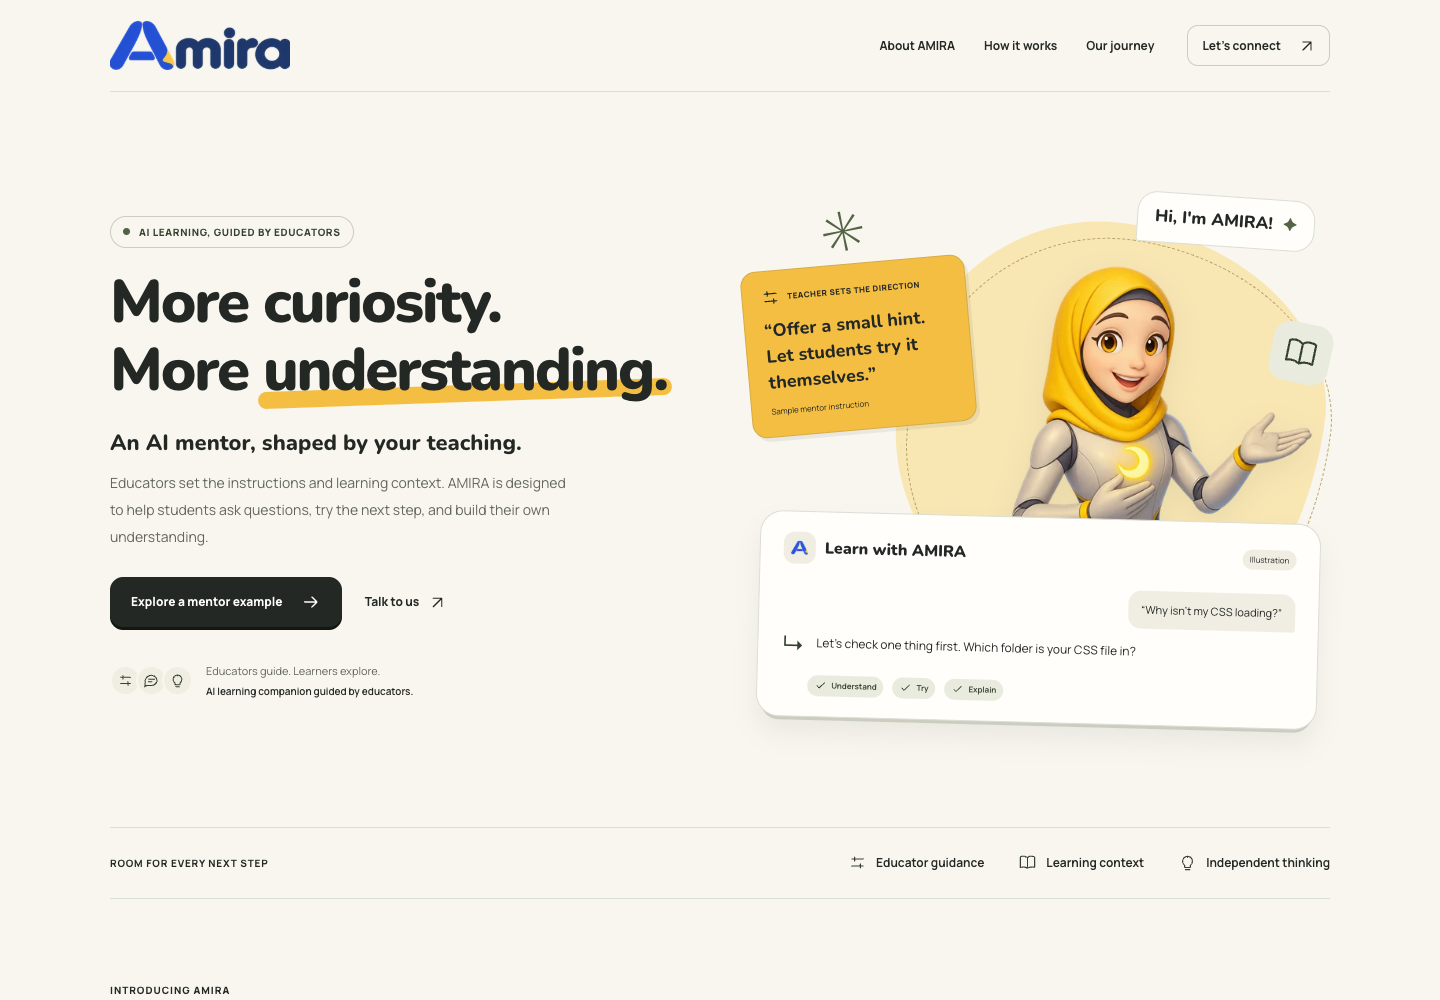
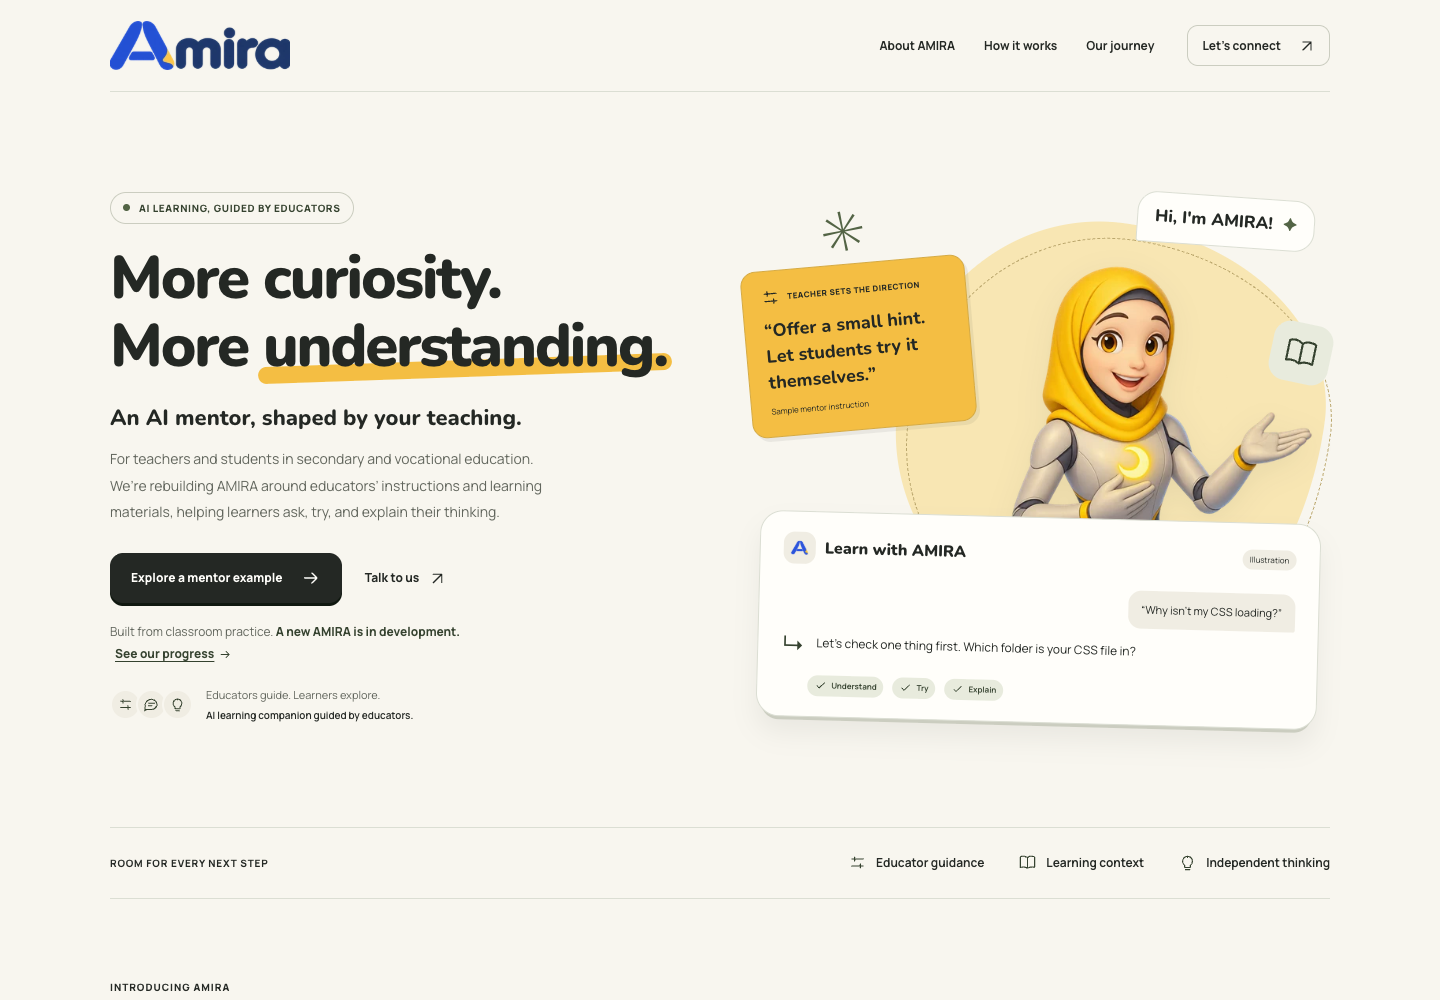
Clarify AMIRA audience and development stage

Changed region(s): [[0.0625, 0.186, 0.4688, 0.744], [0.0938, 0.961, 0.1562, 1.0]]

diff --git a/src/styles/global.css b/src/styles/global.css
@@ -120,3 +120,10 @@ button,select,input{font:inherit}button,a{-webkit-tap-highlight-color:transparen
 .contact-panel{background:var(--gold);border-color:#d5aa43}
 .contact-copy h2,.contact-copy p,.contact-copy .eyebrow,.contact-email,.mascot-caption{color:var(--ink)}
 .mascot-halo{background:var(--warm-soft)}
+
+/* Make the first learning context and development stage visible in the hero. */
+.hero-development{max-width:460px;margin-top:18px;font-size:12px;line-height:1.85;color:var(--muted)}
+.hero-development strong{font-weight:750;color:var(--accent-ink)}
+.hero-development a{display:inline-flex;align-items:center;gap:5px;margin-left:5px;color:var(--accent-ink);font-weight:750;text-decoration:underline;text-underline-offset:3px}
+.hero-development a:hover{color:var(--ink)}
+.hero-development+.hero-footnote{margin-top:20px}

diff --git a/VALIDATION.md b/VALIDATION.md
@@ -78,3 +78,12 @@ Build passed with Node requirements recorded in package metadata and the README.
 - Verified that the hosting branch contains only `README.md` and `dist/`, records the source commit, excludes original PDFs and Finder metadata, and leaves the source branch and temporary worktree registry clean. An unexpected PDF was rejected before publication.
 - Workflow YAML parsed successfully. Official checkout/setup-node actions are pinned to verified commit hashes. Main-branch triggers and the manual-run guard restrict source builds to `main`; publication is serialized and uses ordinary pushes.
 - These checks verify packaging and repository publication behavior. The hosting account's process/thread quota was not directly inspected. No production hosting or DNS changes were performed.
+
+## Product positioning and visible development stage — 14 October 2026
+
+- The hero, FAQ, and search/social descriptions identify the initial secondary/vocational learning context. The introduction explains how recurring questions and different starting points divide teacher attention.
+- A development-stage line is visible beneath the hero actions. Its “See our progress” link opens the existing product-status details and preserves the distinction between the earlier app and the current rebuild.
+- Static build and the hosting-output verifier passed. At 320, 390, 640, 768, 1024, and 1440 px, the development line stayed within the initial viewport, with no horizontal overflow, failed images, or JavaScript/request errors.
+- The new progress link opened its target at all six widths. Mobile navigation passed. Automated Axe checks found no WCAG 2 A/AA or 2.1 A/AA violations in the default desktop/mobile views.
+- Desktop/mobile hero and introduction layouts were visually inspected. Current QA screenshots and report are in `output/preview/startup-copy/`; repository previews show the revised hero.
+- A separate English Claude application draft was prepared in ignored local output for founder review. It identifies proposed integration work as unimplemented and is excluded from the public website and Git publication.

diff --git a/README.md b/README.md
@@ -4,6 +4,8 @@ The English-language product landing page for **amiraedu.com**, built with Astro
 
 AMIRA — Artificial Mentor for Intelligent Reasoning and Assistance — is an AI learning companion guided by educators. Teachers shape the instructions and learning context; students work through questions, hints, and reflection.
 
+The initial focus is teachers and students in secondary and vocational education. The hero makes the new platform's development stage visible and links to the earlier classroom work and next steps.
+
 ![AMIRA landing page](docs/preview/desktop.png)
 
 ## Requirements and local development
